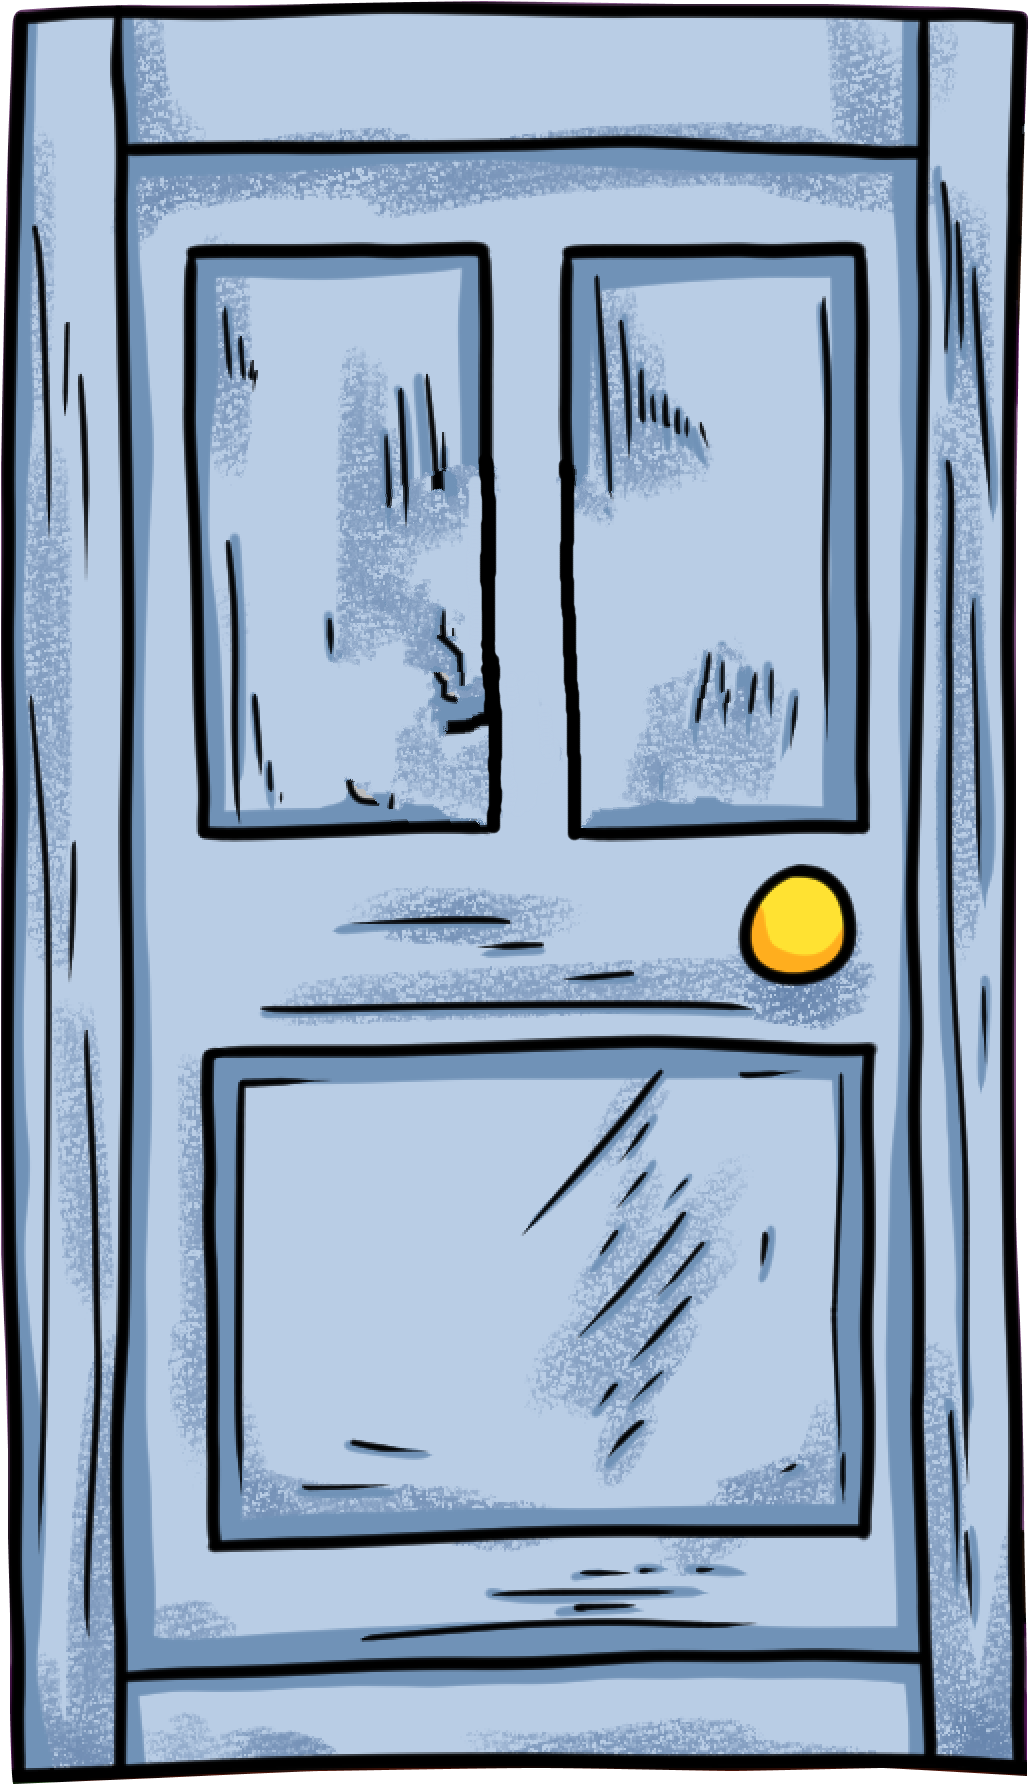
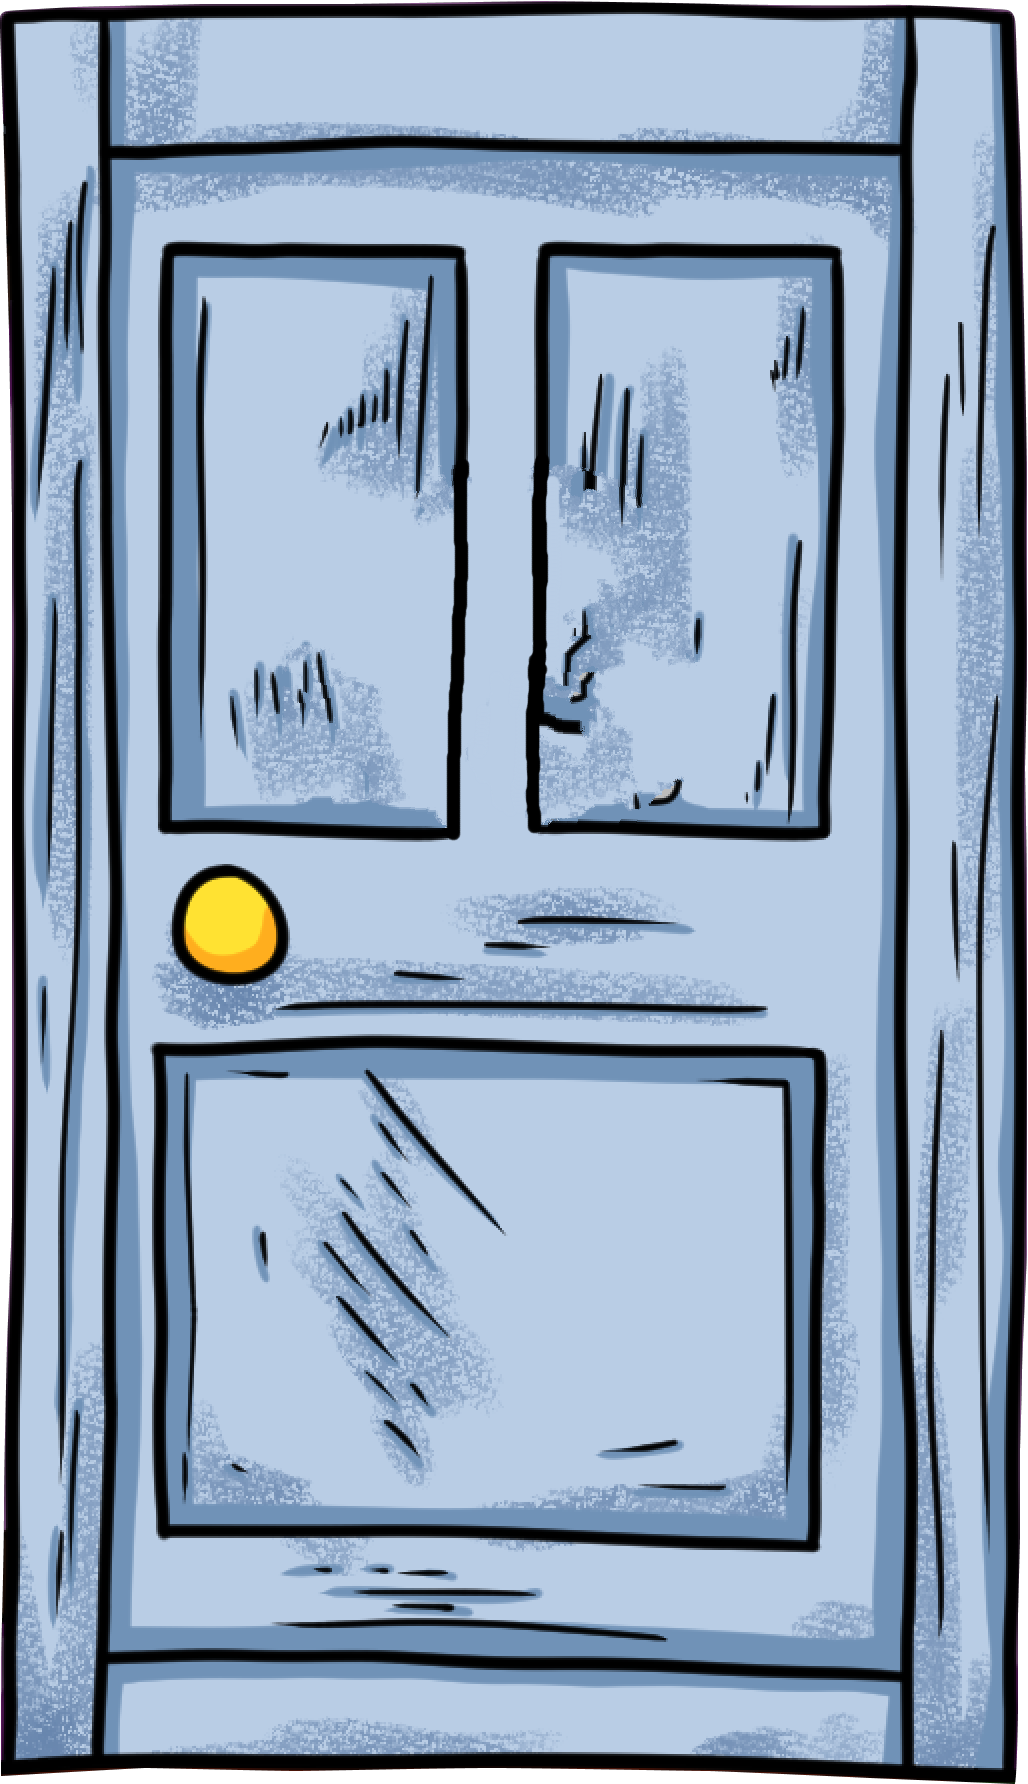
move door handle & fix fade door animation

diff --git a/src/lib/Hero.svelte b/src/lib/Hero.svelte
@@ -17,7 +17,9 @@
             scrub: true
         }})
         tl.to('.door', {rotateY: '-105deg', duration: 5})
-        .fromTo('.door', {opacity: 1, scale: 1, xPercent: 0, duration: 3, yPercent: 0}, {opacity: 0, scale: 1.5, xPercent: -25,yPercent: 3, duration: 3})
+        .fromTo('.door', { scale: 1, xPercent: 0, duration: 3, yPercent: 0}, { scale: 1.5, xPercent: -25,yPercent: 3, duration: 3})
+        .fromTo('.door_front', {opacity: 1,   duration: 3, }, {opacity: 0,   duration: 3}, '<')
+        .fromTo('.door_back', {opacity: 1,   duration: 3, }, {opacity: 0,  duration: 3}, '<')
         .to('.light', { opacity: 0}, '<')
         .to('.background', { opacity: 0}, '<')
         .to('.outside_open', { opacity: 0, scale: 1.5, duration: 3}, '<')
@@ -75,11 +77,11 @@
     .door img{
         position: absolute;
         inset: 0 0 0 0;
+        object-fit: contain;
         min-height: 100%;
         min-width: 100%;
-        height: 100%;
         width: 100%;
-        object-fit: cover;
+        height: 100%;
         -webkit-backface-visibility: hidden; /* Safari */
         backface-visibility: hidden;
     }
